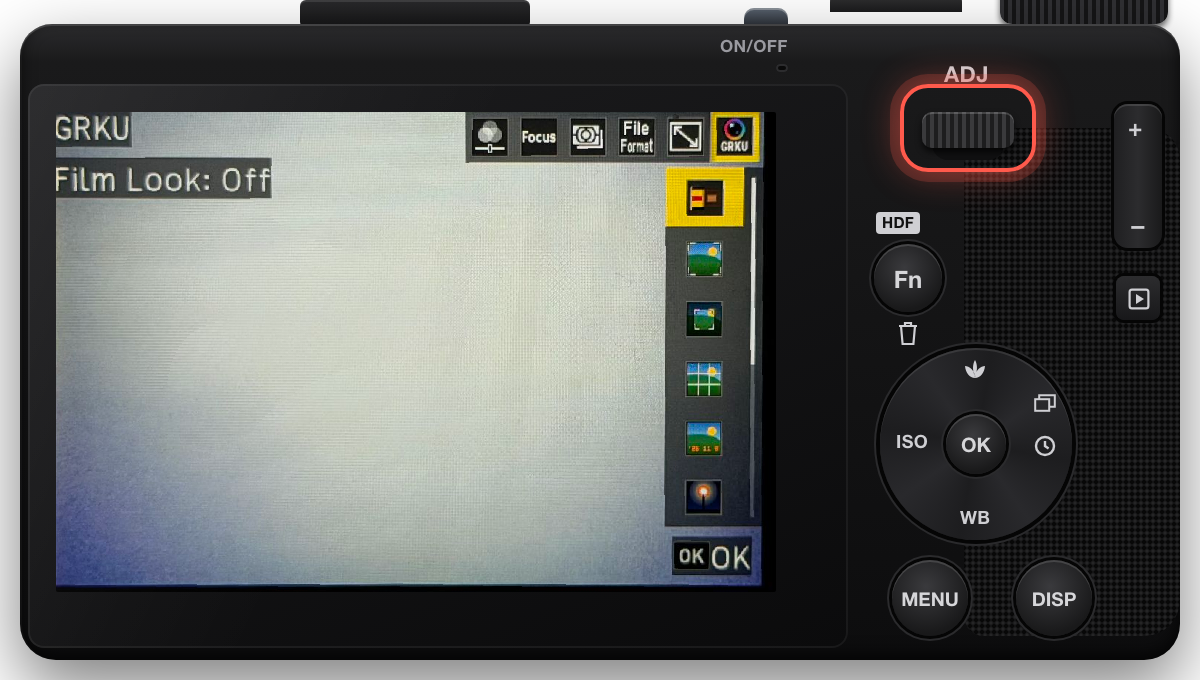
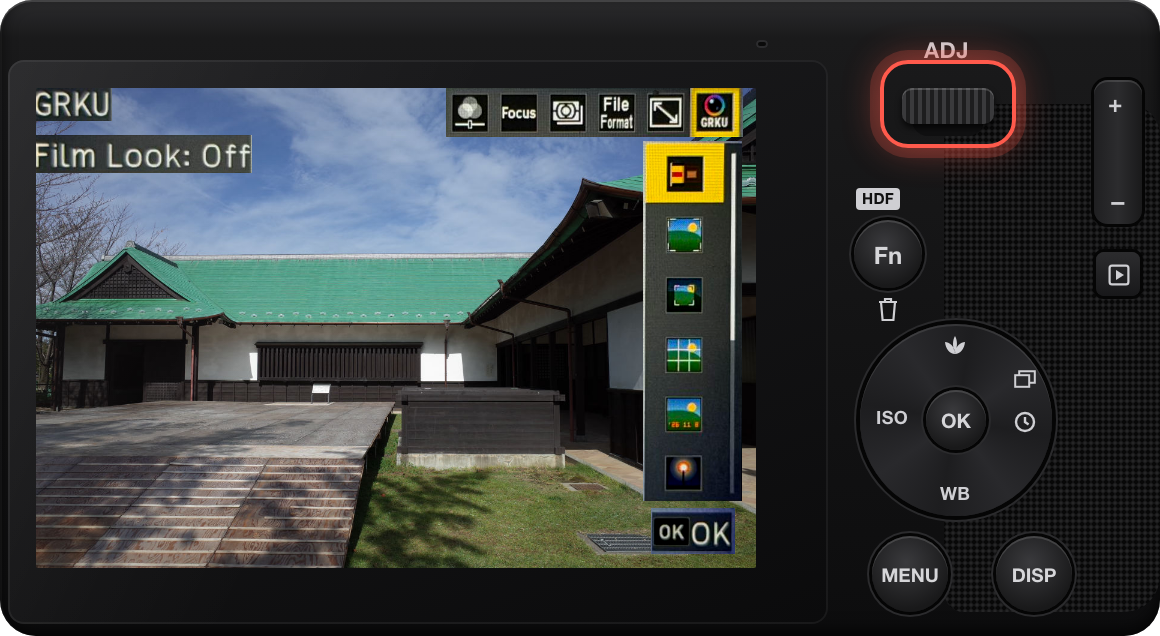
Screens from a GR IV: the MENU section photo straightened, the ADJ page with the camera's own panels over a sample photo (Mobnoboka, CC BY-SA 4.0, credited in the READMEs and guides); the camera and card pictures without margins or shadows; the camera without the top-plate pieces

diff --git a/web/src/App.tsx b/web/src/App.tsx
@@ -832,15 +832,15 @@ export function App({
       </ol>
       {/* The card after step 2, then the camera in steps 3 and 4. */}
       <div className="mt-4 flex flex-col gap-3">
-        <figure className="relative m-0 rounded-xl bg-background/50 p-2">
-          <StepNumber n={2} className="absolute top-2 left-2 z-10" />
-          <img src={CARD_IMAGES[camera.key] ?? CARD_IMAGES.gr4} alt="" width="600" height="200" className="mx-auto h-auto w-full max-w-lg" />
+        <figure className="relative m-0">
+          <StepNumber n={2} className="absolute -top-2 -left-2 z-10 ring-2 ring-card" />
+          <img src={CARD_IMAGES[camera.key] ?? CARD_IMAGES.gr4} alt="" width="600" height="178" className="mx-auto h-auto w-full max-w-lg" />
         </figure>
         <div className="grid grid-cols-1 gap-3 sm:grid-cols-2">
           {([[3, cameraMenuImage], [4, cameraAdjImage]] as const).map(([n, src]) => (
-            <figure key={n} className="relative m-0 rounded-xl bg-background/50 p-2">
-              <StepNumber n={n} className="absolute top-2 left-2 z-10" />
-              <img src={src} alt="" width="600" height="340" className="h-auto w-full" />
+            <figure key={n} className="relative m-0">
+              <StepNumber n={n} className="absolute -top-2 -left-2 z-10 ring-2 ring-card" />
+              <img src={src} alt="" width="580" height="318" className="h-auto w-full" />
             </figure>
           ))}
         </div>

diff --git a/README.th.md b/README.th.md
@@ -15,7 +15,7 @@ GRKU เป็นโปรเจกต์อิสระที่สร้าง
   <img src="resources/images/grku-menu.jpg" alt="ส่วนของ GRKU ในแท็บ Customize ของ MENU" width="49%">
 </p>
 
-ภาพถ่ายโดย: [MIKI Yoshihito](https://www.flickr.com/photos/mujitra/53311001084/), [CC BY 2.0](https://creativecommons.org/licenses/by/2.0/)
+ภาพถ่ายโดย: [Mobnoboka](https://commons.wikimedia.org/wiki/File:Oguchi_Joushi_Kouen_1.jpg), [CC BY-SA 4.0](https://creativecommons.org/licenses/by-sa/4.0/)
 
 ## ฟีเจอร์
 

diff --git a/README.ja.md b/README.ja.md
@@ -15,7 +15,7 @@ GRKU は、[BOTNICK](https://github.com/botnick) がまずタイの GR ユーザ
   <img src="resources/images/grku-menu.jpg" alt="MENU のカスタマイズタブにある GRKU セクション" width="49%">
 </p>
 
-写真：[MIKI Yoshihito](https://www.flickr.com/photos/mujitra/53311001084/)、[CC BY 2.0](https://creativecommons.org/licenses/by/2.0/)。
+写真：[Mobnoboka](https://commons.wikimedia.org/wiki/File:Oguchi_Joushi_Kouen_1.jpg)、[CC BY-SA 4.0](https://creativecommons.org/licenses/by-sa/4.0/)。
 
 ## 機能
 

diff --git a/README.md b/README.md
@@ -15,7 +15,7 @@ GRKU is its own project, made by [BOTNICK](https://github.com/botnick) for GR ow
   <img src="resources/images/grku-menu.jpg" alt="The GRKU section in the Customize tab of MENU" width="49%">
 </p>
 
-Photo: [MIKI Yoshihito](https://www.flickr.com/photos/mujitra/53311001084/), [CC BY 2.0](https://creativecommons.org/licenses/by/2.0/).
+Photo in the screens: [Mobnoboka](https://commons.wikimedia.org/wiki/File:Oguchi_Joushi_Kouen_1.jpg), [CC BY-SA 4.0](https://creativecommons.org/licenses/by-sa/4.0/).
 
 ## What it does
 

diff --git a/resources/INSTALLATION.th.md b/resources/INSTALLATION.th.md
@@ -92,3 +92,5 @@ GRKU จะเก็บการตั้งค่าและเอฟเฟก
 หากกล้องค้างระหว่างเปิดเครื่อง สามารถดูวิธีแก้ไขได้ที่ [คู่มือการกู้คืนระบบ](https://github.com/botnick/GRKU/blob/main/resources/RECOVERY.md)
 
 GRKU ไม่มีส่วนเกี่ยวข้องใดๆ กับ Ricoh
+
+Photo in the camera screens: Mobnoboka, CC BY-SA 4.0.

diff --git a/README.zh-Hans.md b/README.zh-Hans.md
@@ -15,7 +15,7 @@ GRKU 是一个独立项目，由 [BOTNICK](https://github.com/botnick) 首先为
   <img src="resources/images/grku-menu.jpg" alt="MENU 自定义页中的 GRKU 小节" width="49%">
 </p>
 
-照片：[MIKI Yoshihito](https://www.flickr.com/photos/mujitra/53311001084/)，[CC BY 2.0](https://creativecommons.org/licenses/by/2.0/)。
+照片：[Mobnoboka](https://commons.wikimedia.org/wiki/File:Oguchi_Joushi_Kouen_1.jpg)，[CC BY-SA 4.0](https://creativecommons.org/licenses/by-sa/4.0/)。
 
 ## 功能
 

diff --git a/README.zh-Hant.md b/README.zh-Hant.md
@@ -15,7 +15,7 @@ GRKU 是一個獨立專案，由 [BOTNICK](https://github.com/botnick) 先為泰
   <img src="resources/images/grku-menu.jpg" alt="MENU 自訂頁中的 GRKU 小節" width="49%">
 </p>
 
-照片：[MIKI Yoshihito](https://www.flickr.com/photos/mujitra/53311001084/)，[CC BY 2.0](https://creativecommons.org/licenses/by/2.0/)。
+照片：[Mobnoboka](https://commons.wikimedia.org/wiki/File:Oguchi_Joushi_Kouen_1.jpg)，[CC BY-SA 4.0](https://creativecommons.org/licenses/by-sa/4.0/)。
 
 ## 功能
 

diff --git a/resources/INSTALLATION-GR4.th.md b/resources/INSTALLATION-GR4.th.md
@@ -88,3 +88,5 @@ GRKU จะเก็บการตั้งค่าและเอฟเฟก
 หากกล้องค้างระหว่างการเปิดเครื่อง ให้อ่าน[คู่มือการกู้คืนระบบ](https://github.com/botnick/GRKU/blob/main/resources/RECOVERY.md)
 
 GRKU ไม่มีส่วนเกี่ยวข้องใดๆ กับ Ricoh
+
+Photo in the camera screens: Mobnoboka, CC BY-SA 4.0.

diff --git a/resources/INSTALLATION-GR4.ja.md b/resources/INSTALLATION-GR4.ja.md
@@ -88,3 +88,5 @@ SD スクリプトの設定はオンのままです。オフにするには：
 起動の途中でカメラが止まった場合は、[復旧ガイド](https://github.com/botnick/GRKU/blob/main/resources/RECOVERY.md)を参照してください。
 
 GRKU は Ricoh と提携していません。
+
+Photo in the camera screens: Mobnoboka, CC BY-SA 4.0.

diff --git a/resources/INSTALLATION.ja.md b/resources/INSTALLATION.ja.md
@@ -92,3 +92,5 @@ SD スクリプトの設定はオンのままです。オフにするには：
 起動の途中でカメラが止まった場合は、[復旧ガイド](https://github.com/botnick/GRKU/blob/main/resources/RECOVERY.md)を参照してください。
 
 GRKU は Ricoh と提携していません。
+
+Photo in the camera screens: Mobnoboka, CC BY-SA 4.0.

diff --git a/resources/INSTALLATION.ko.md b/resources/INSTALLATION.ko.md
@@ -93,3 +93,5 @@ SD 스크립트 설정은 켜진 상태로 유지됩니다. 이를 끄려면 다
 시작 중에 카메라가 멈추면 [복구 가이드](https://github.com/botnick/GRKU/blob/main/resources/RECOVERY.md)를 참조하십시오.
 
 GRKU는 Ricoh와 제휴하지 않았습니다.
+
+Photo in the camera screens: Mobnoboka, CC BY-SA 4.0.
